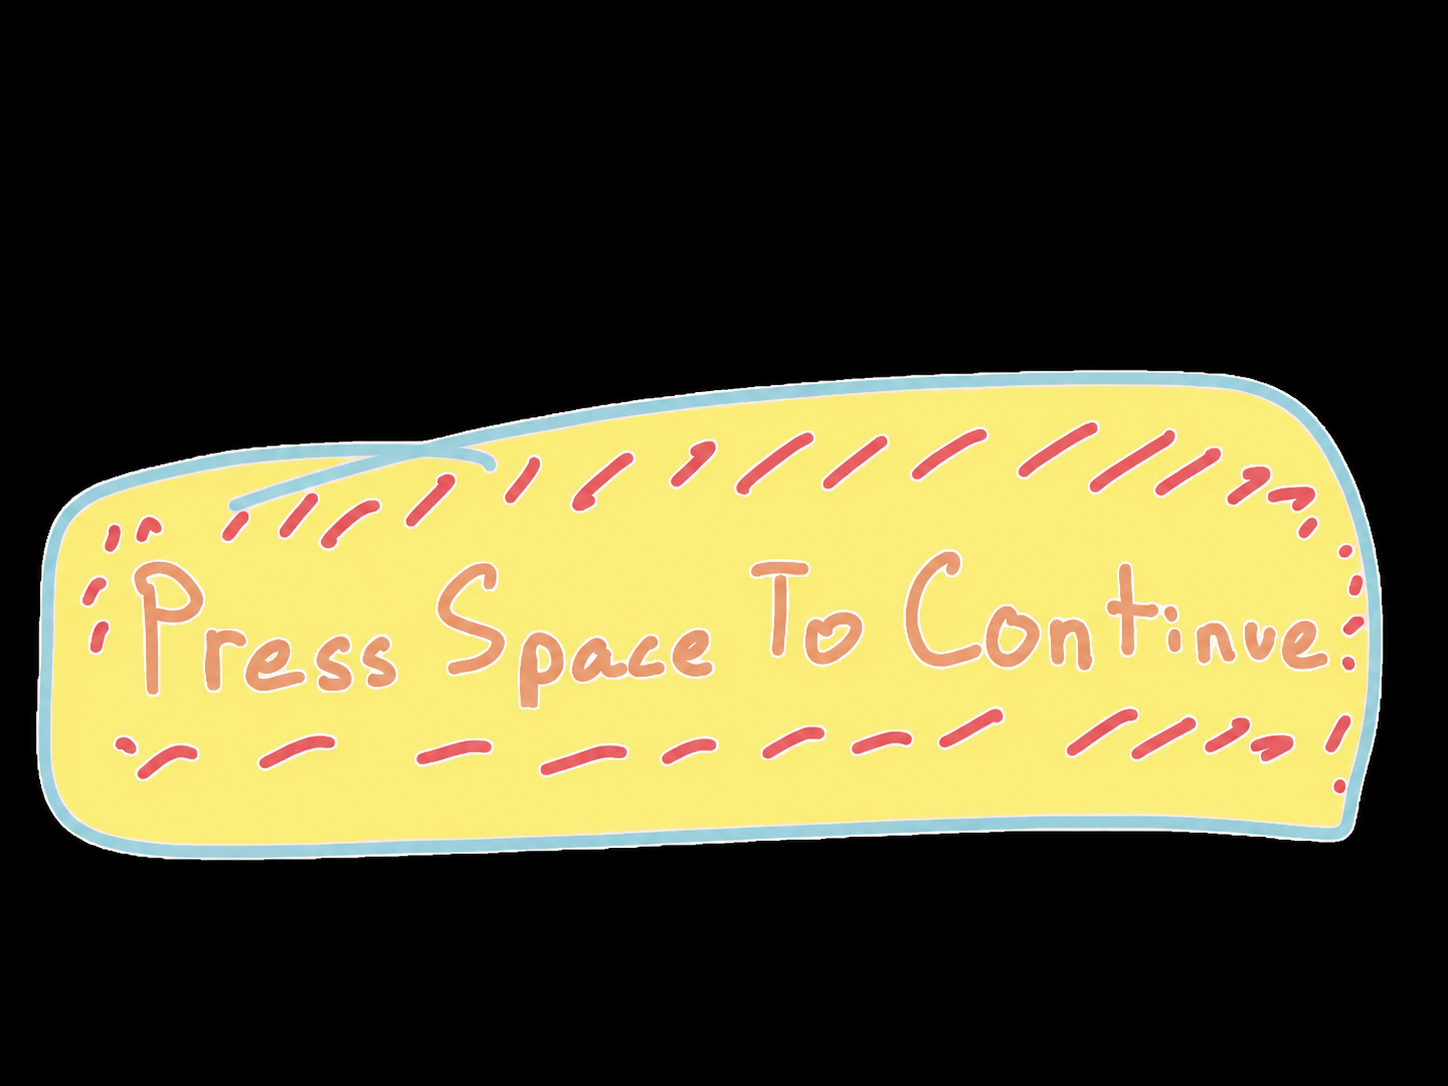
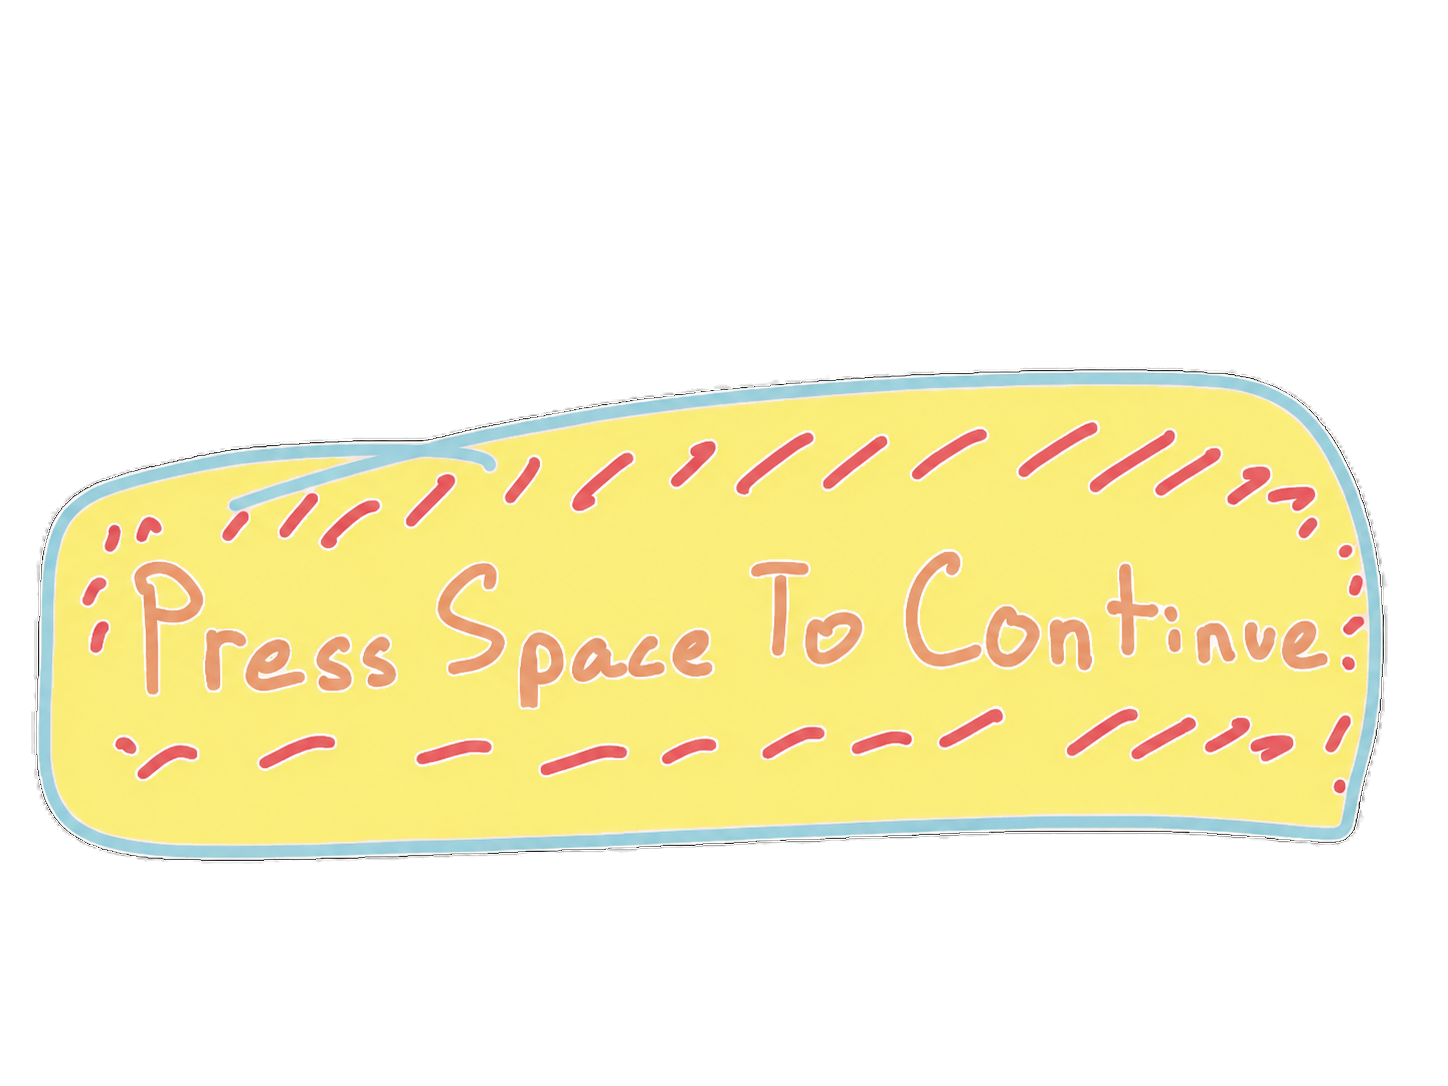
pls more legible thank u

diff --git a/frontend/src/Intro.jsx b/frontend/src/Intro.jsx
@@ -3,7 +3,7 @@ import gsap from 'gsap'
 import Leaderboard from './Leaderboard.jsx'
 import DrawnButton from './DrawnButton.jsx'
 import { publicAsset } from './publicAsset.js'
-import { BEATS, BUTTON_ART, CLIMB_AUDIO, DEFAULT_HINT, DEFAULT_HINT_IMAGE, TITLE } from './story.js'
+import { BEATS, BUTTON_ART, CLIMB_AUDIO, DEFAULT_HINT, DEFAULT_HINT_IMAGE_BG, TITLE } from './story.js'
 
 
 // story.js to update the lore
@@ -176,12 +176,14 @@ function Intro({ onComplete, muted = false }) {
   const beat = index >= 0 ? BEATS[index] : null
   const onTitle = index === TITLE_INDEX
   // drawn prompt on the title card and on every climb beat that leans on the
-  // default "space to continue"; a beat with its own hint line stays as text
+  // default "space to continue"; a beat with its own hint line stays as text.
+  // The climb runs the filled-in art -- the outline alone gets lost in the
+  // bright stretches of the footage.
   const hintImage = onTitle
     ? TITLE.hintImage
     : beat?.hint
       ? null
-      : DEFAULT_HINT_IMAGE
+      : DEFAULT_HINT_IMAGE_BG
 
   return (
     <div className="intro" ref={rootRef} onClick={advance}>

diff --git a/frontend/src/EndCutscene.jsx b/frontend/src/EndCutscene.jsx
@@ -3,7 +3,7 @@ import gsap from 'gsap'
 import {
   BUTTON_ART,
   DEFAULT_HINT,
-  DEFAULT_HINT_IMAGE,
+  DEFAULT_HINT_IMAGE_BG,
   LICENSE_DIALOGUE_FAIL,
   LICENSE_DIALOGUE_PASS,
   LICENSE_IMAGE,
@@ -194,13 +194,14 @@ function EndCutscene({ passed, score, maxScore, onComplete, onSpeakerChange }) {
           <img className="cutscene__license" src={LICENSE_IMAGE} alt="Salsa license" />
         )}
         {/* the drawn prompt, except on the license beat, which asks for
-            something other than the plain "space to continue" */}
+            something other than the plain "space to continue". The filled-in
+            art: this one sits over the bright summit with nothing dimming it */}
         {isLast && passed ? (
           <p className="cutscene__hint">space to claim your license</p>
         ) : (
           <img
             className="cutscene__hint cutscene__hint--drawn"
-            src={DEFAULT_HINT_IMAGE}
+            src={DEFAULT_HINT_IMAGE_BG}
             alt={DEFAULT_HINT}
             draggable="false"
           />

diff --git a/frontend/src/story.js b/frontend/src/story.js
@@ -37,9 +37,14 @@ export const INTRO_MUSIC_VOLUME = 0.55
 
 export const DEFAULT_HINT = 'space to continue'
 
-// the drawn version of the default hint, shown through the climb beats.
-// A beat that sets its own `hint` string still gets plain text.
-export const DEFAULT_HINT_IMAGE = '/inst_space_cont.png'
+// the drawn version of the default hint. Outline only, so it wants a dark
+// backdrop under it -- kept here to swap back to on any screen that has one.
+export const DEFAULT_HINT_IMAGE = publicAsset('/inst_space_cont.png')
+
+// the same prompt with the fill left in. This is the one in use: the outline
+// alone washes out over the climb footage and over the summit's sky and grass.
+// A beat that sets its own `hint` string still gets plain text instead.
+export const DEFAULT_HINT_IMAGE_BG = publicAsset('/button_space_cont_bg.png')
 
 // the drawn button artwork -- see DrawnButton.jsx
 export const BUTTON_ART = {
